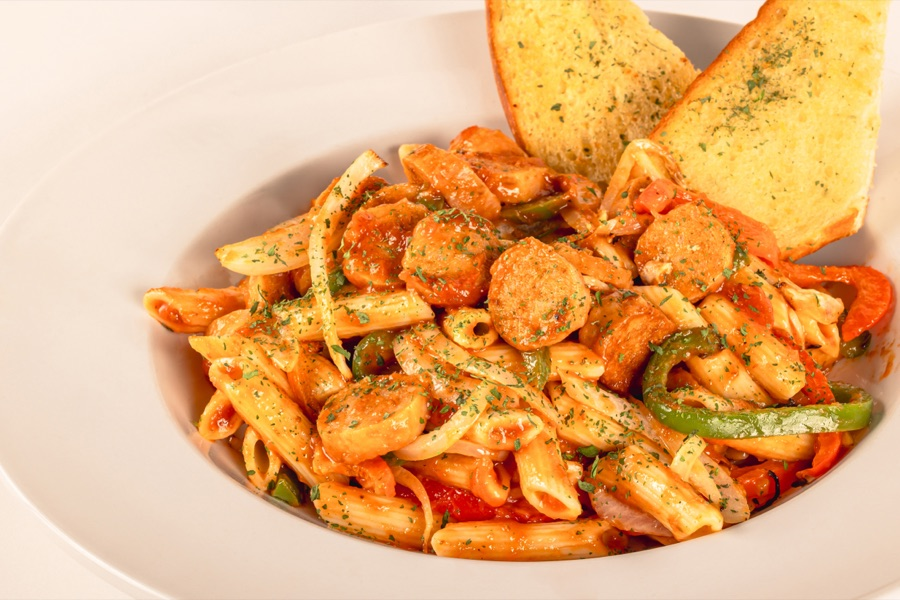
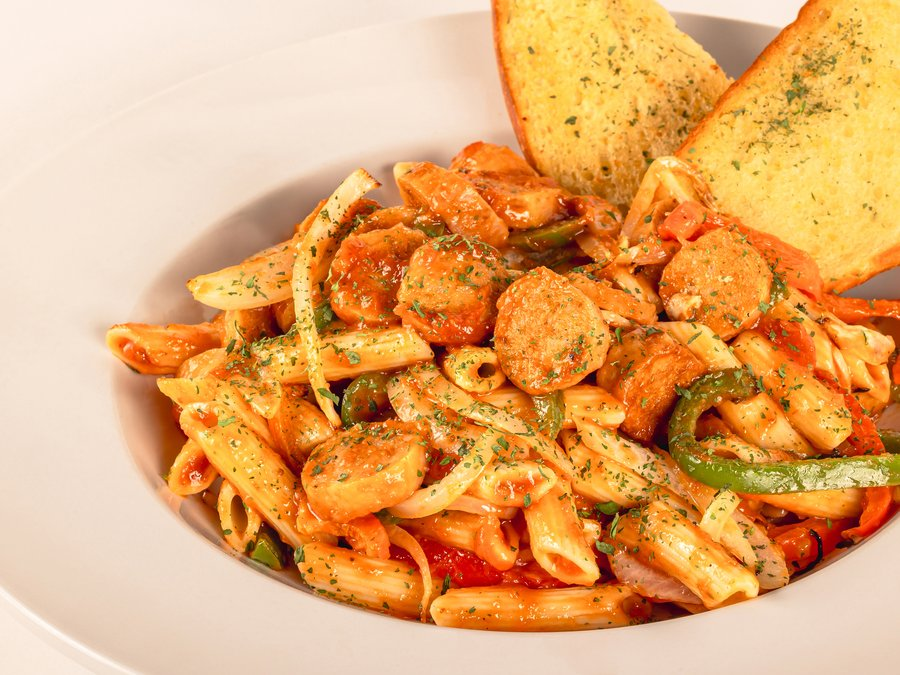
Icônes SVG (pas d'emoji), carrousel du menu, 5 photos recadrées en 4:3
- .feature-icon : emoji remplacés par des SVG inline trait fin (même
  langage visuel que .plate-icon) — chope, flamme, trophée. Règle dure
  du projet désormais : jamais d'emoji comme icône d'UI.
- #menu-grid devient un carrousel à défilement horizontal, même
  pattern que .reopening-gallery.
- Les 5 photos de plats recadrées au même ratio 4:3 (script Python/
  Pillow, détection de la masse principale du plat) — le burger seul
  avait été recadré en portrait pour le centrer, ce qui le faisait
  paraître plus gros que les autres avec object-fit:contain. Toutes
  au même ratio que la boîte → même « poids » visuel dans le carrousel.

diff --git a/index.html b/index.html
@@ -6,7 +6,7 @@
     <title>Chez Stanley — Resto-bar sportif</title>
     <!-- Mark JS on before first paint so animatable elements start hidden (no flash). -->
     <script>document.documentElement.classList.add('gsap');</script>
-    <link rel="stylesheet" href="style.css?v=52">
+    <link rel="stylesheet" href="style.css?v=53">
     <link href="https://fonts.googleapis.com/css2?family=Poppins:wght@400;600;700&family=Ultra&display=swap" rel="stylesheet">
 </head>
 <body>
@@ -82,17 +82,35 @@
                 </div>
                 <div class="features-grid">
                     <div class="feature-card reveal">
-                        <div class="feature-icon" aria-hidden="true">🍺</div>
+                        <div class="feature-icon" aria-hidden="true">
+                            <svg viewBox="0 0 24 24" fill="none" stroke="currentColor" stroke-width="1.6" stroke-linecap="round" stroke-linejoin="round">
+                                <path d="M5 8h11v10a2 2 0 0 1-2 2H7a2 2 0 0 1-2-2V8Z" />
+                                <path d="M16 10.5h1.5a2 2 0 0 1 2 2v1a2 2 0 0 1-2 2H16" />
+                                <path d="M8 8V5.5A1.5 1.5 0 0 1 9.5 4H11" />
+                            </svg>
+                        </div>
                         <h3 class="text">Bière de microbrasserie</h3>
                         <p class="line">On déniche les meilleures bières d'ici pour accompagner ton repas à la perfection.</p>
                     </div>
                     <div class="feature-card reveal">
-                        <div class="feature-icon" aria-hidden="true">🍗</div>
+                        <div class="feature-icon" aria-hidden="true">
+                            <svg viewBox="0 0 24 24" fill="none" stroke="currentColor" stroke-width="1.6" stroke-linecap="round" stroke-linejoin="round">
+                                <path d="M12 2.5c1 2.6-1.8 3.7-1.8 6.3a2.8 2.8 0 0 0 5.6 0c0-1-.6-1.8-1-2.5.6.8 1.2 1.8 1.2 3a4.2 4.2 0 1 1-8.4 0c0-3.2 2.7-4 4.4-6.8Z" />
+                            </svg>
+                        </div>
                         <h3 class="text">Ailes signature</h3>
                         <p class="line">Nos ailes sont légendaires. Enrobées de sauces maison qui ont du punch.</p>
                     </div>
                     <div class="feature-card reveal">
-                        <div class="feature-icon" aria-hidden="true">🏆</div>
+                        <div class="feature-icon" aria-hidden="true">
+                            <svg viewBox="0 0 24 24" fill="none" stroke="currentColor" stroke-width="1.6" stroke-linecap="round" stroke-linejoin="round">
+                                <path d="M7 4h10v4a5 5 0 0 1-10 0V4Z" />
+                                <path d="M7 5H4.5a1.5 1.5 0 0 0 0 3H6M17 5h2.5a1.5 1.5 0 0 1 0 3H18" />
+                                <path d="M12 13v3.5" />
+                                <path d="M9 20.5h6" />
+                                <path d="M9.8 16.5h4.4l.4 4H9.4l.4-4Z" />
+                            </svg>
+                        </div>
                         <h3 class="text">Programme de fidélité</h3>
                         <p class="line">Accumule des points à chaque commande et débloque des rabais exclusifs.</p>
                     </div>
@@ -344,6 +362,6 @@
     <script src="https://cdn.jsdelivr.net/npm/gsap@3.13.0/dist/ScrollSmoother.min.js"></script>
     <script src="https://cdn.jsdelivr.net/npm/gsap@3.13.0/dist/SplitText.min.js"></script>
     <script src="store.js?v=15"></script>
-    <script src="script.js?v=37"></script>
+    <script src="script.js?v=38"></script>
 </body>
 </html>

diff --git a/script.js b/script.js
@@ -9,7 +9,7 @@ const products = [
         name: "Le burger prolongation",
         desc: "Double galette smash, cheddar vieilli, confit de bacon, laitue croquante, tomate et oignon rouge. Frites coupées à la main.",
         price: 18.00,
-        img: "images/menu/burger-real.jpg?v=2",
+        img: "images/menu/burger-real.jpg?v=3",
         icon: "🍔"
     },
     {
@@ -17,7 +17,7 @@ const products = [
         name: "Côtes levées mise en échec",
         desc: "Demi-carré de côtes levées fumées, glacées BBQ maison, servies avec frites maison et salade de chou crémeuse.",
         price: 21.00,
-        img: "images/menu/ribs.jpg",
+        img: "images/menu/ribs.jpg?v=2",
         icon: "🍖"
     },
     {
@@ -25,7 +25,7 @@ const products = [
         name: "Le bol du gardien",
         desc: "Thon mi-cuit en croûte de sésame sur riz, edamames, carottes marinées et pickles maison.",
         price: 17.00,
-        img: "images/menu/poke-bowl.jpg",
+        img: "images/menu/poke-bowl.jpg?v=2",
         icon: "🐟"
     },
     {
@@ -33,7 +33,7 @@ const products = [
         name: "Les penne du capitaine",
         desc: "Penne aux crevettes et au poulet, sauce rosée, poivrons grillés et parmesan, pain à l'ail sur le côté.",
         price: 18.50,
-        img: "images/menu/penne.jpg",
+        img: "images/menu/penne.jpg?v=2",
         icon: "🍝"
     },
     {
@@ -41,7 +41,7 @@ const products = [
         name: "La brochette du défenseur",
         desc: "Brochette de poulet et légumes grillés, riz pilaf et salade César.",
         price: 19.00,
-        img: "images/menu/skewers.jpg",
+        img: "images/menu/skewers.jpg?v=2",
         icon: "🍢"
     }
 ];

diff --git a/style.css b/style.css
@@ -561,9 +561,16 @@ section {
 }
 
 .feature-icon {
-    font-size: 2rem;
-    line-height: 1;
-    margin-bottom: 16px;
+    width: 36px;
+    height: 36px;
+    color: var(--primary);
+    margin-bottom: 18px;
+}
+
+.feature-icon svg {
+    width: 100%;
+    height: 100%;
+    display: block;
 }
 
 .feature-card h3 {
@@ -580,18 +587,36 @@ section {
     background-color: var(--bg-secondary);
 }
 
+/* Horizontal-scroll carousel — swipe on mobile, scroll on desktop */
 .menu-grid {
-    display: grid;
-    grid-template-columns: repeat(auto-fit, minmax(300px, 1fr));
-    gap: 32px;
+    display: flex;
+    gap: 24px;
+    overflow-x: auto;
+    scroll-snap-type: x mandatory;
+    scroll-padding-left: 5%;
+    -webkit-overflow-scrolling: touch;
+    scrollbar-width: none;
+    padding-bottom: 4px;
+}
+
+.menu-grid::-webkit-scrollbar {
+    display: none;
 }
 
 .menu-item {
+    flex: 0 0 78%;
+    scroll-snap-align: start;
     background-color: var(--bg-color);
     border-radius: 24px;
     overflow: hidden;
     display: flex;
     flex-direction: column;
+}
+
+@media (min-width: 640px) {
+    .menu-item {
+        flex-basis: 320px;
+    }
 }
 
 .menu-item-photo {

diff --git a/SISTEMA-DE-DISEÑO.md b/SISTEMA-DE-DISEÑO.md
@@ -474,30 +474,54 @@ tarjetas (features, menú, testimonios, ubicación, footer).
   - `poke-bowl.jpg` — "Le bol du gardien" (thon mi-cuit, 17,00 $)
   - `penne.jpg` — "Les penne du capitaine" (crevettes et poulet, 18,50 $)
   - `skewers.jpg` — "La brochette du défenseur" (19,00 $)
-  JPG (no PNG) porque son fotos con degradés — comprime mejor. Redimensionadas
-  a 900px de ancho con `sips`, ~90–195 KB c/u. Cada item sigue siendo
-  `{ id, name, desc, price, img, icon }`. `renderMenu()` arma `.menu-item-photo`
-  (`aspect-ratio 4/3`, `object-fit: contain`) + `.menu-item-body`. El `icon`
-  (emoji) se conserva solo para la mini-vista del carrito.
-  - ⚠ **`burger-real.jpg` re-recortada (18 sep 2026):** el primer recorte
-    dejaba la hamburguesa pegada a la izquierda con medio frame de espacio
-    blanco a la derecha — con `object-fit:contain` eso se ve descentrado
-    aunque el CSS técnicamente centre la imagen completa (el sujeto dentro de
-    la foto no estaba centrado). Fix: se recortó de nuevo desde el original
-    (`scratchpad/drive-raw/simon-03.jpg`, 5030×3353) con `ffmpeg crop`
-    centrado en el bounding box real de la hamburguesa (detectado con un
-    script Python que escanea píxeles no-blancos), dejando padding simétrico
-    en los 4 lados → ahora el sujeto queda centrado dentro del archivo mismo,
-    así que `contain` lo centra de verdad. **Lección:** si `object-fit:contain`
-    se ve descentrado, el problema casi siempre es que el sujeto no está
-    centrado DENTRO de la foto — hay que recortar la fuente, no la técnica de
-    CSS. `?v=2` en la referencia de `script.js` para el cache-bust.
+  JPG (no PNG) porque son fotos con degradés — comprime mejor. Cada item sigue
+  siendo `{ id, name, desc, price, img, icon }`. `renderMenu()` arma
+  `.menu-item-photo` (`aspect-ratio 4/3`, `object-fit: contain`) +
+  `.menu-item-body`. El `icon` (emoji) se conserva solo para la mini-vista del
+  carrito.
+  - ⚠ **Las 5 fotos se re-recortaron TODAS a 4:3 (18 sep 2026, `?v=2`/`?v=3`
+    en `script.js`), con el mismo método, para que se vean del mismo "tamaño"
+    en el carrusel.** Historia: primero solo la burger se recortó (para
+    centrarla — venía con medio frame de espacio blanco a la derecha), pero
+    quedó en **retrato** (700×914) mientras las otras 4 seguían siendo el
+    frame completo sin recortar (900×600, paisaje 3:2). Con
+    `object-fit:contain` en una caja `4:3`, una imagen en retrato se ajusta
+    por ALTURA (llena la caja de arriba a abajo) mientras una en paisaje 3:2
+    se ajusta por ANCHO (deja franjas arriba/abajo) → la burger se veía
+    notablemente más grande/zoom que las demás aunque el recorte "técnicamente"
+    ya centraba bien el sujeto. El usuario lo notó: *"¿por qué la imagen de la
+    hamburguesa es más grande que la de los demás?"*.
+  - **Fix real:** recortar las 5 fotos (desde los originales en
+    `scratchpad/drive-raw/simon-0{3,6,9,18,27}.jpg`) al **mismo aspect ratio
+    que la caja (4:3)**, centradas en la "masa principal" del plato — un
+    script Python (Pillow, sin numpy) que: (1) samplea el color de fondo en
+    las 4 esquinas, (2) para cada fila de píxeles mide el ancho del contenido
+    que difiere de ese color, (3) descarta filas cuyo ancho de contenido es
+    menor al 35% del máximo (así ignora el palillo delgado de la burger, que
+    sobresale arriba de la masa principal, pero SÍ cuenta el plato/tazón
+    entero como parte del sujeto), (4) arma un crop `4:3` centrado en el
+    centro-x del sujeto y con la altura de la "masa principal" + 6% de
+    padding, recortando ancho si se sale del borde de la imagen. Salida:
+    900×675 (4:3 exacto) para las 5, mismo nivel de "llenado" del frame.
+    **Lección:** si `object-fit:contain` se ve descentrado o de tamaño
+    distinto entre imágenes de una misma grilla/carrusel, casi siempre es
+    porque (a) el sujeto no está centrado DENTRO del archivo, y/o (b) las
+    imágenes no comparten el mismo aspect ratio que la caja — hay que
+    recortar la fuente para que ambas cosas coincidan, no pelear con CSS.
 - **Cómo se obtuvieron:** conector de Google Drive (MCP) — el cliente compartió
   el link de carpeta, se buscó `parentId = '<folder>'` y se bajaron los JPG con
   `download_file_content` (límite: **10 MB por archivo** en este conector; los
   más pesados del shooting, >10MB, no se pudieron traer — para esos habría que
   pedir el original directo o exportarlo más liviano). Los que sí bajaron se
   revisaron en un contact-sheet (Pillow) antes de elegir cuáles usar.
+- **`#menu-grid` es un carrusel de scroll horizontal** (18 sep 2026, el usuario
+  pidió el mismo patrón que `.reopening-gallery` — ver §20): dejó de ser
+  `display:grid`. Ahora `display:flex; overflow-x:auto; scroll-snap-type:x
+  mandatory` + scrollbar oculto. `.menu-item { flex:0 0 78%; scroll-snap-align:
+  start }` en móvil (peek de la siguiente tarjeta); `@media(min-width:640px)`
+  pasa a `flex-basis:320px` (varias visibles a la vez, se sigue pudiendo
+  scrollear para ver las 5). El scroll es nativo del navegador, eje X — no
+  interfiere con ScrollSmoother (eje Y).
 - **Testimonios:** avatares reales (`images/avatars/rev-1..3.jpg`, 400×400, del
   folder `~/Downloads/Avatares `). `.testimonial-avatar` pasó de círculo con
   iniciales a `<img>` `object-fit: cover` 48px. Se **quitó `.reveal` de las
@@ -540,10 +564,19 @@ tarjetas (features, menú, testimonios, ubicación, footer).
     el usuario pidió cambiarlo a la izquierda el mismo día.)
   - Se borraron `hero-burgers.mp4` / `hero-burgers-poster.jpg` (Pexels, ya no
     se usan) y el `hero-video` original (Pexels) tampoco existe más.
-  - **Iconos en `.feature-card`:** cada tarjeta lleva un `.feature-icon` (emoji,
-    `font-size:2rem`, antes del `h3`) — 🍺 microbrasserie, 🍗 ailes, 🏆 fidélité.
-    Mismo patrón que los emoji de `products[]`/`SAMPLE_PRODUCTS` (icono para
-    UI rápida, no imagen).
+  - **Iconos en `.feature-card` — SVG profesional, NUNCA emoji** (18 sep
+    2026). Primer intento fue con emoji (🍺🍗🏆); el usuario lo rechazó:
+    *"No uses emojis, te pedí iconos, iconos profesionales."* — regla dura
+    para todo el proyecto de aquí en adelante. `.feature-icon` (36×36px,
+    `color: var(--primary)`) contiene un `<svg>` inline dibujado a mano,
+    trazo fino (`stroke="currentColor" stroke-width="1.6"
+    stroke-linecap="round" stroke-linejoin="round"`, `fill="none"`,
+    `viewBox="0 0 24 24"`) — mismo lenguaje visual que `.plate-icon` del
+    navbar. Los 3 iconos actuales: jarra de cerveza (microbrasserie), llama
+    (ailes signature), trofeo (fidélité — referencia a la Copa Stanley).
+    Los emoji de `products[]`/`SAMPLE_PRODUCTS` (🍔🍖🐟…) SÍ se quedan —
+    esos son para la mini-vista del carrito/admin, no iconos de UI
+    decorativos; la regla aplica a iconos, no a esos emoji funcionales.
 
 ## 20. Sección "Reopening" — anuncio de reapertura (18 sep 2026)
 
